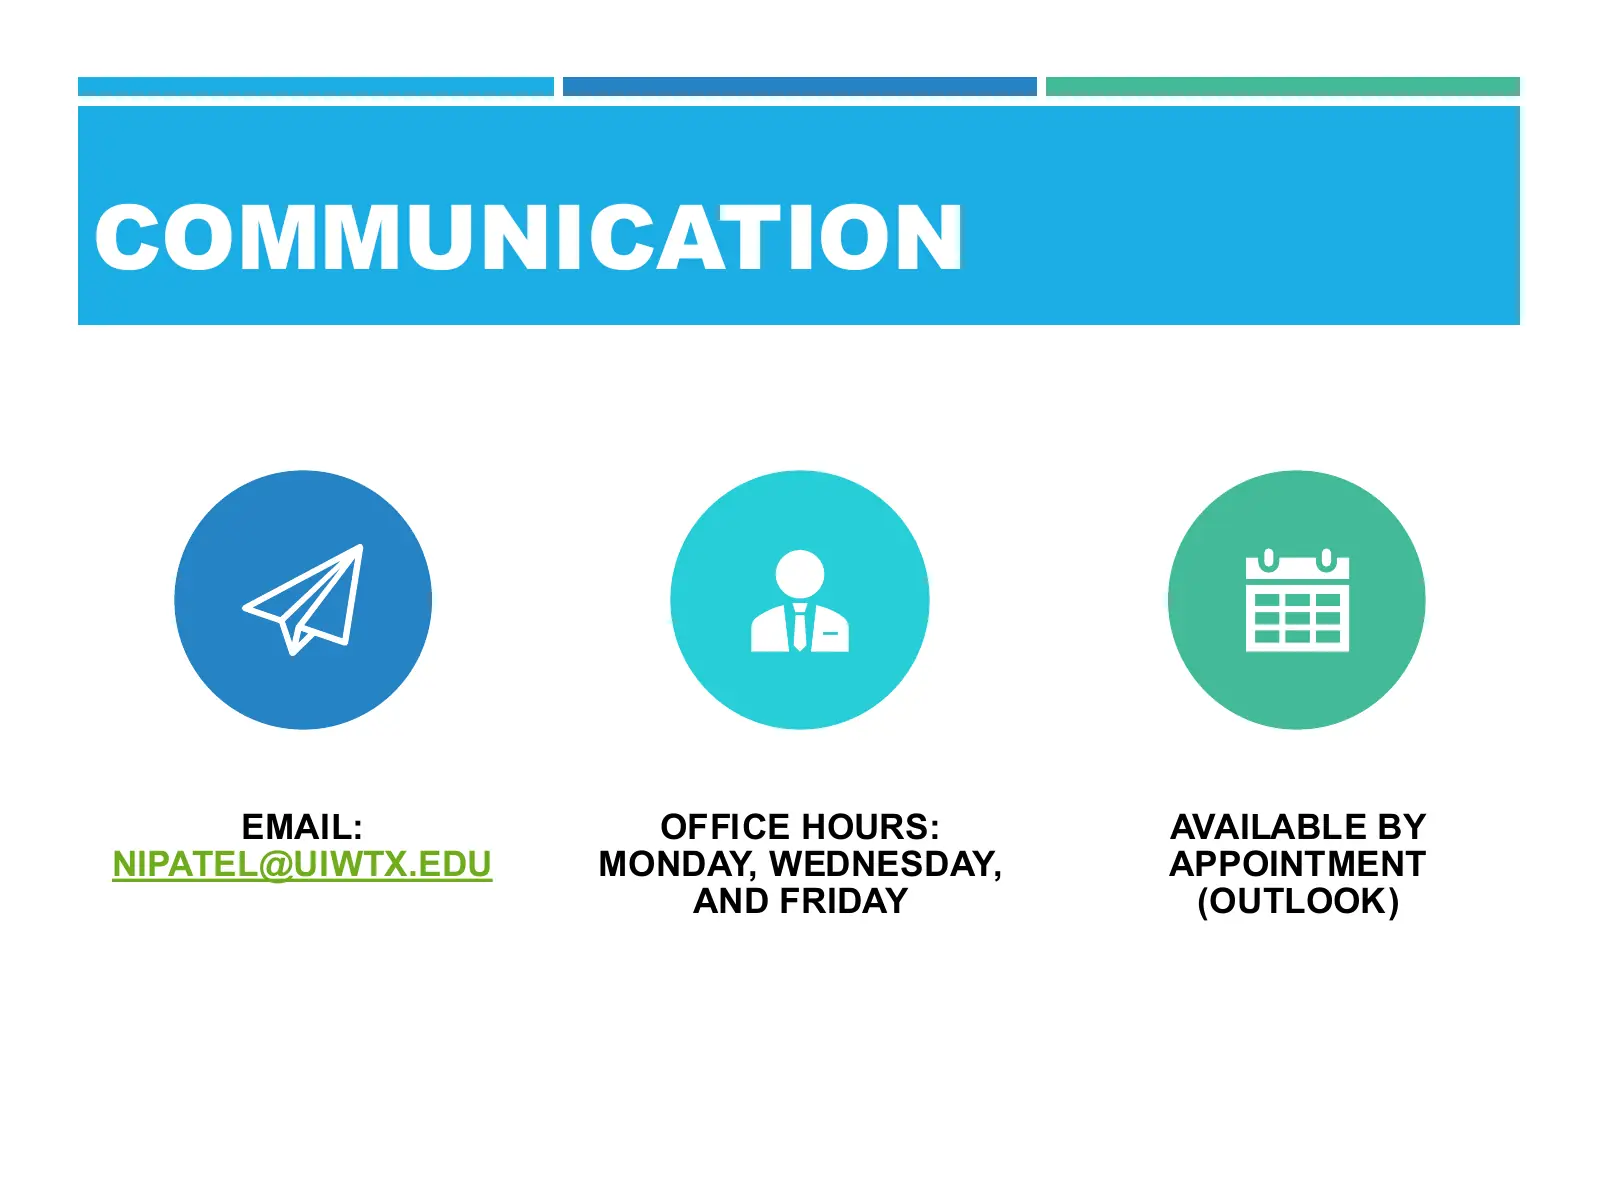
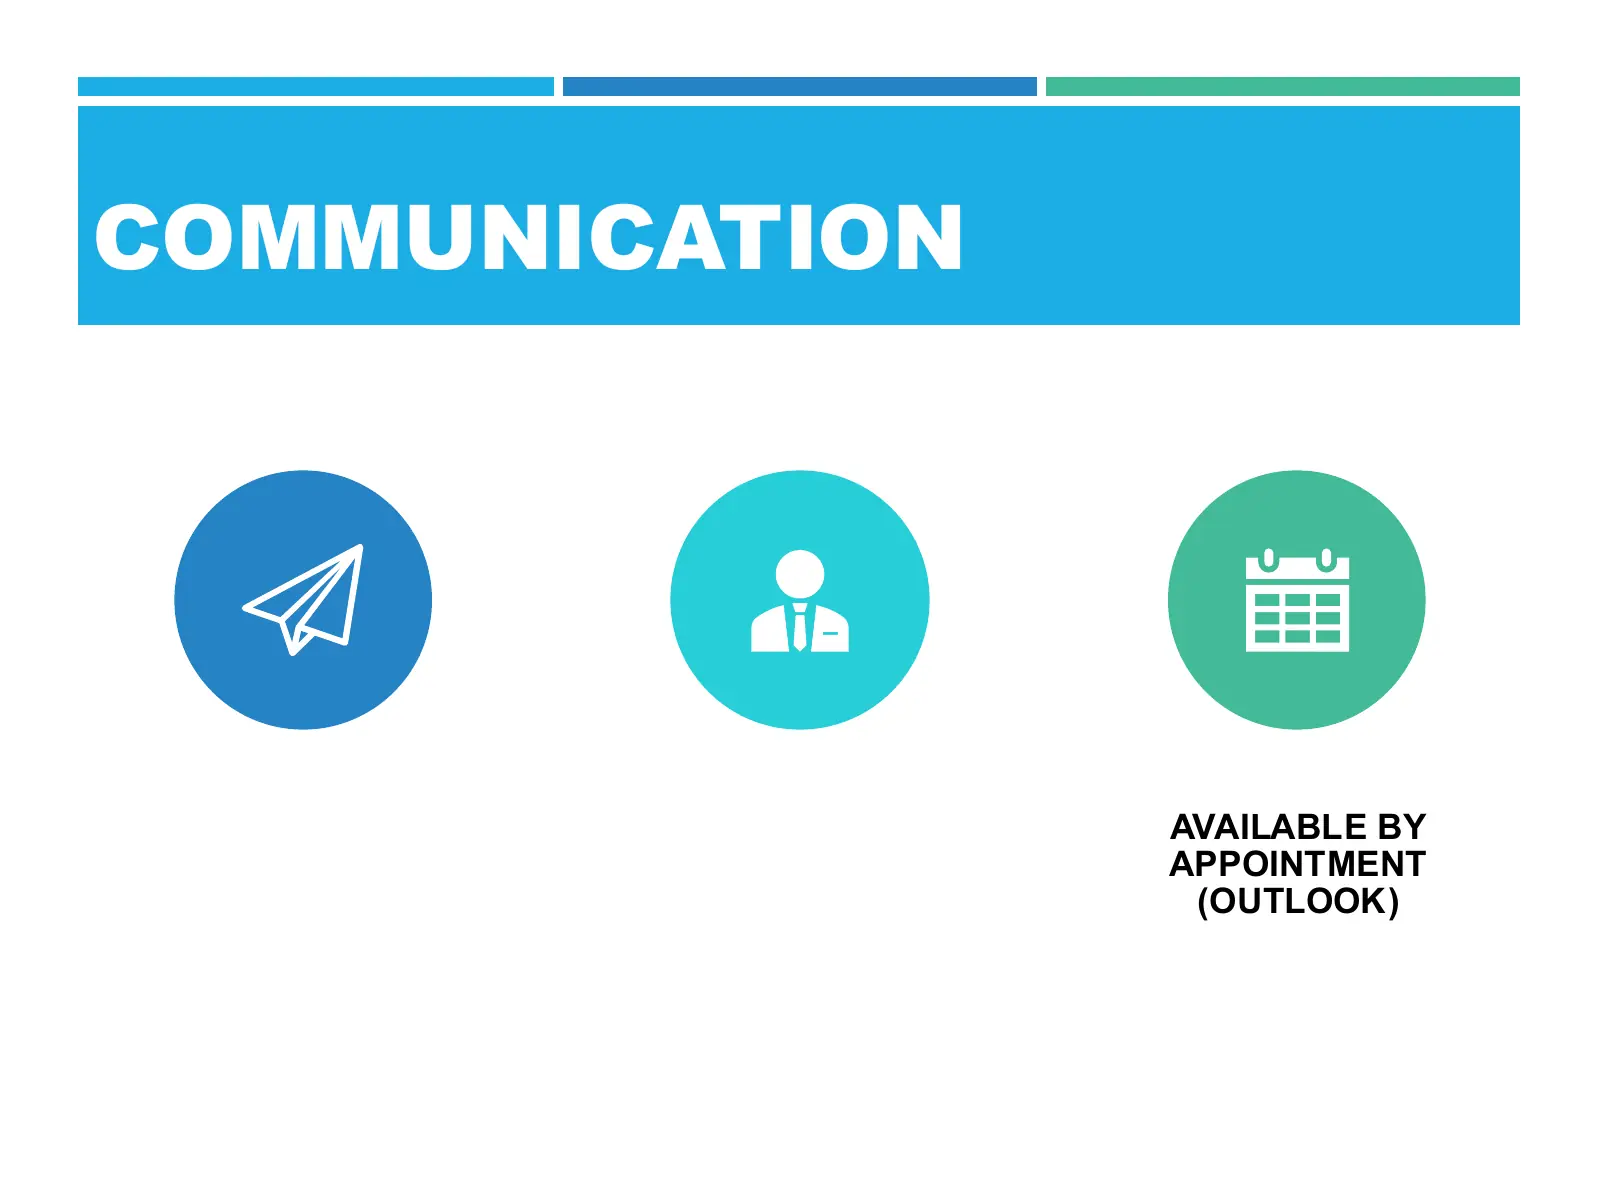
Slide images: contact details covered (a professor's email and office-hours lines on 15 title, Communication and closing slides); change-log bullets for the exam folders and slide links
Claude-Session: https://claude.ai/code/session_01LVkWFEkUuDubJgsfxiNBhr

diff --git a/src/render_deck.py b/src/render_deck.py
@@ -24,6 +24,12 @@ slides (Warts, Corns and Calluses 17, 370 words; DPAW 26, the vitamin D scheme):
   JPEG 1600 q72   about 58 MB; clear
   WebP 1600 q72   about 32 MB; as clear as the JPEG at 1600   <- used
   WebP 1920 q60   about 35 MB; no gain at the sizes the viewer shows
+
+Contact details are covered before a page is saved: every text line that holds an email
+address or the words "office hours" (and the lines that continue it) is painted over in the
+color of the slide beside it (cover_rects below; the pages are listed as they are rendered). These are a professor's own
+details on title, "Communication" and closing slides, not course content, and the site is
+public. A telephone number is left as it is (the Poison Control number is slide content).
 """
 import json, os, re, subprocess, sys, tempfile
 from concurrent.futures import ProcessPoolExecutor
@@ -39,10 +45,48 @@ def slides():
     return json.loads(src[src.index('{', src.index('const SLIDES')):src.rindex('}') + 1])
 
 
+COVER_EMAIL = re.compile(r'[\w.+-]+@[\w-]+\.[\w.-]+')
+COVER_BLOCK = re.compile(r'office\s+hours?', re.I)
+
+
+def cover_rects(pdf, p):
+    """The rectangles to paint over on page p (1-based), as fractions of the page: every text
+    line that holds an email address or the words "office hours", and the lines that continue
+    such a line directly below it."""
+    import pymupdf
+    doc = pymupdf.open(pdf)
+    page = doc[p - 1]
+    W, H = page.rect.width, page.rect.height
+    lines = []
+    for blk in page.get_text('dict')['blocks']:
+        for ln in blk.get('lines', []):
+            lines.append((tuple(ln['bbox']), ''.join(sp['text'] for sp in ln['spans'])))
+    doc.close()
+    hit = [bb for bb, t in lines if COVER_EMAIL.search(t) or COVER_BLOCK.search(t)]
+    grew = True
+    while grew:                       # a wrapped line under a covered one, overlapping it sideways
+        grew = False
+        for bb, t in lines:
+            if bb in hit or not t.strip():
+                continue
+            if any(abs(bb[1] - h[3]) < 3 and bb[0] < h[2] and h[0] < bb[2] for h in hit):
+                hit.append(bb)
+                grew = True
+    return [(x0 / W, y0 / H, x1 / W, y1 / H) for x0, y0, x1, y1 in hit]
+
+
 def encode(job):
-    png, dest = job
-    from PIL import Image
+    png, dest, cover = job
+    from PIL import Image, ImageDraw
     im = Image.open(png).convert('RGB')
+    if cover:
+        dr = ImageDraw.Draw(im)
+        for x0, y0, x1, y1 in cover:
+            xa, xb = max(0, int(x0 * im.width - 8)), min(im.width - 1, int(x1 * im.width + 8))
+            ya, yb = max(0, int(y0 * im.height - 2)), min(im.height - 1, int(y1 * im.height + 2))
+            sx = max(0, xa - 6)
+            for y in range(ya, yb + 1):   # each row in the color of the slide just left of the text
+                dr.line([(xa, y), (xb, y)], fill=im.getpixel((sx, y)))
     im.save(dest, 'WEBP', quality=QUALITY, method=6)
     os.unlink(png)
     return dest, im.size, os.path.getsize(dest)
@@ -83,7 +127,7 @@ def main():
     clean = os.environ.get('CLEAN_DIR') or next((d for d in DEFAULT_CLEAN if os.path.isdir(d)), DEFAULT_CLEAN[0])
     annotated = {f for d in S['decks'].values() for f in d['files']}
     out_root = os.path.join(ROOT, S['dir'])
-    total, count = 0, 0
+    total, count, covered = 0, 0, []
     with ProcessPoolExecutor() as pool:
         for did, d in S['decks'].items():
             pages = [int(x.split('-')[1]) for x in (only or []) if x.startswith(did + '-')]
@@ -105,7 +149,10 @@ def main():
                     base = os.path.join(t, f'p{p}')
                     subprocess.run(['pdftoppm', '-png', '-scale-to-x', str(WIDTH), '-scale-to-y', '-1', '-f', str(p), '-l', str(p),
                                     '-singlefile', pdf, base], check=True, stderr=subprocess.DEVNULL)
-                    jobs.append((base + '.png', os.path.join(dest, f'{p:02d}.{S["ext"]}')))
+                    cov = cover_rects(pdf, p)
+                    if cov:
+                        covered.append(f'{did} {p}')
+                    jobs.append((base + '.png', os.path.join(dest, f'{p:02d}.{S["ext"]}'), cov))
                 done = list(pool.map(encode, jobs))
             sizes = {sz for _, sz, _ in done}
             b = sum(x for _, _, x in done)
@@ -117,6 +164,7 @@ def main():
                 sheet(did, [(p, os.path.join(dest, f'{p:02d}.{S["ext"]}')) for p in range(1, n + 1)
                             if os.path.isfile(os.path.join(dest, f'{p:02d}.{S["ext"]}'))], sheets)
     print(f'{count} images, {total / 1e6:.1f} MB written under {S["dir"]}/')
+    print(f'contact details covered on {len(covered)} page(s): ' + ', '.join(covered))
 
 
 if __name__ == '__main__':

diff --git a/src/CHANGELOG.md b/src/CHANGELOG.md
@@ -8,6 +8,13 @@ characters.
 
 Every update adds its bullets here in the same commit that makes the change.
 
+## 2026-11-13 (exam folders, slide links)
+- Guides, Tell apart and Reference are grouped in an Exam 1 and an Exam 2 folder; the current exam opens first.
+- Tell apart, Exam 2: one button for each comparison of the Diseases tab; Back returns to the list.
+- A slide citation (for example "PCol slide 24") is now a link: tap it to see that slide of the deck.
+- The slide viewer has Previous, Next and Open full size; it shows the clean copy of all 11 decks.
+- Slide links appear after an answer and in Reference, Tell apart, Guides, Atlas, Drug list and Diseases.
+
 ## 2026-11-13 (wide windows)
 - On a Mac or iPad the page now grows with the window (up to 1,680 px wide) and no longer leaves wide margins.
 - Diseases on a wide screen: practice patients sit beside the steps; comparisons run side by side.
